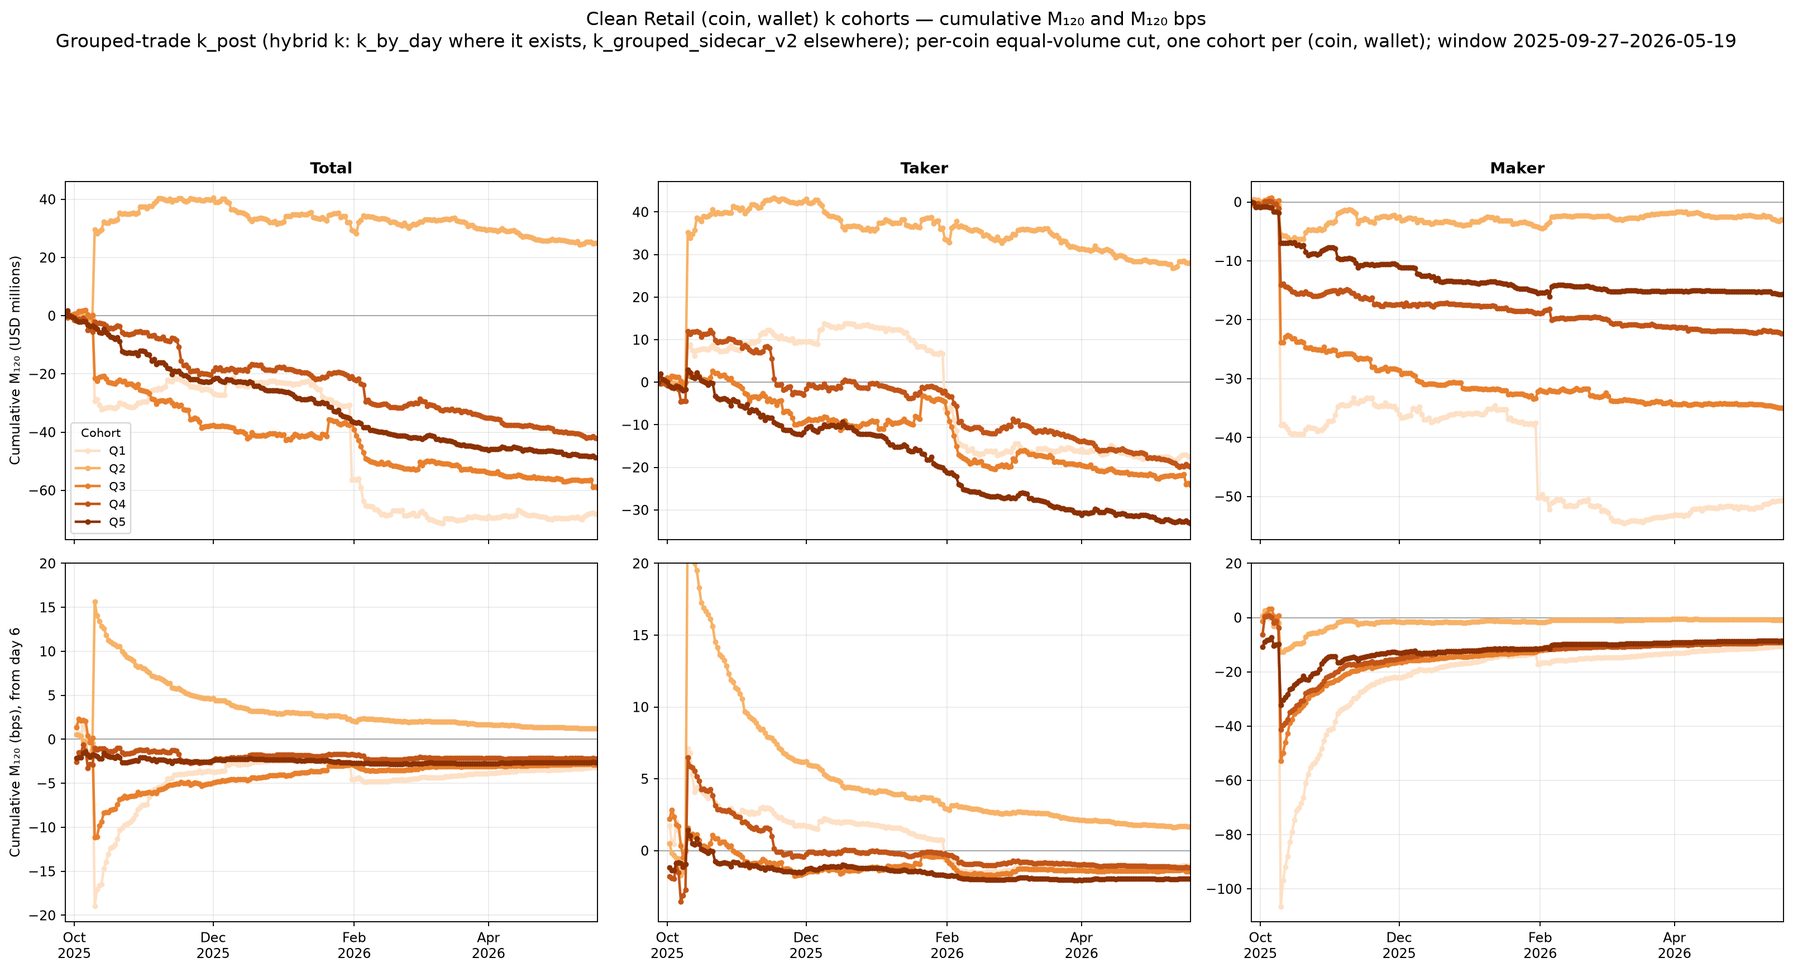
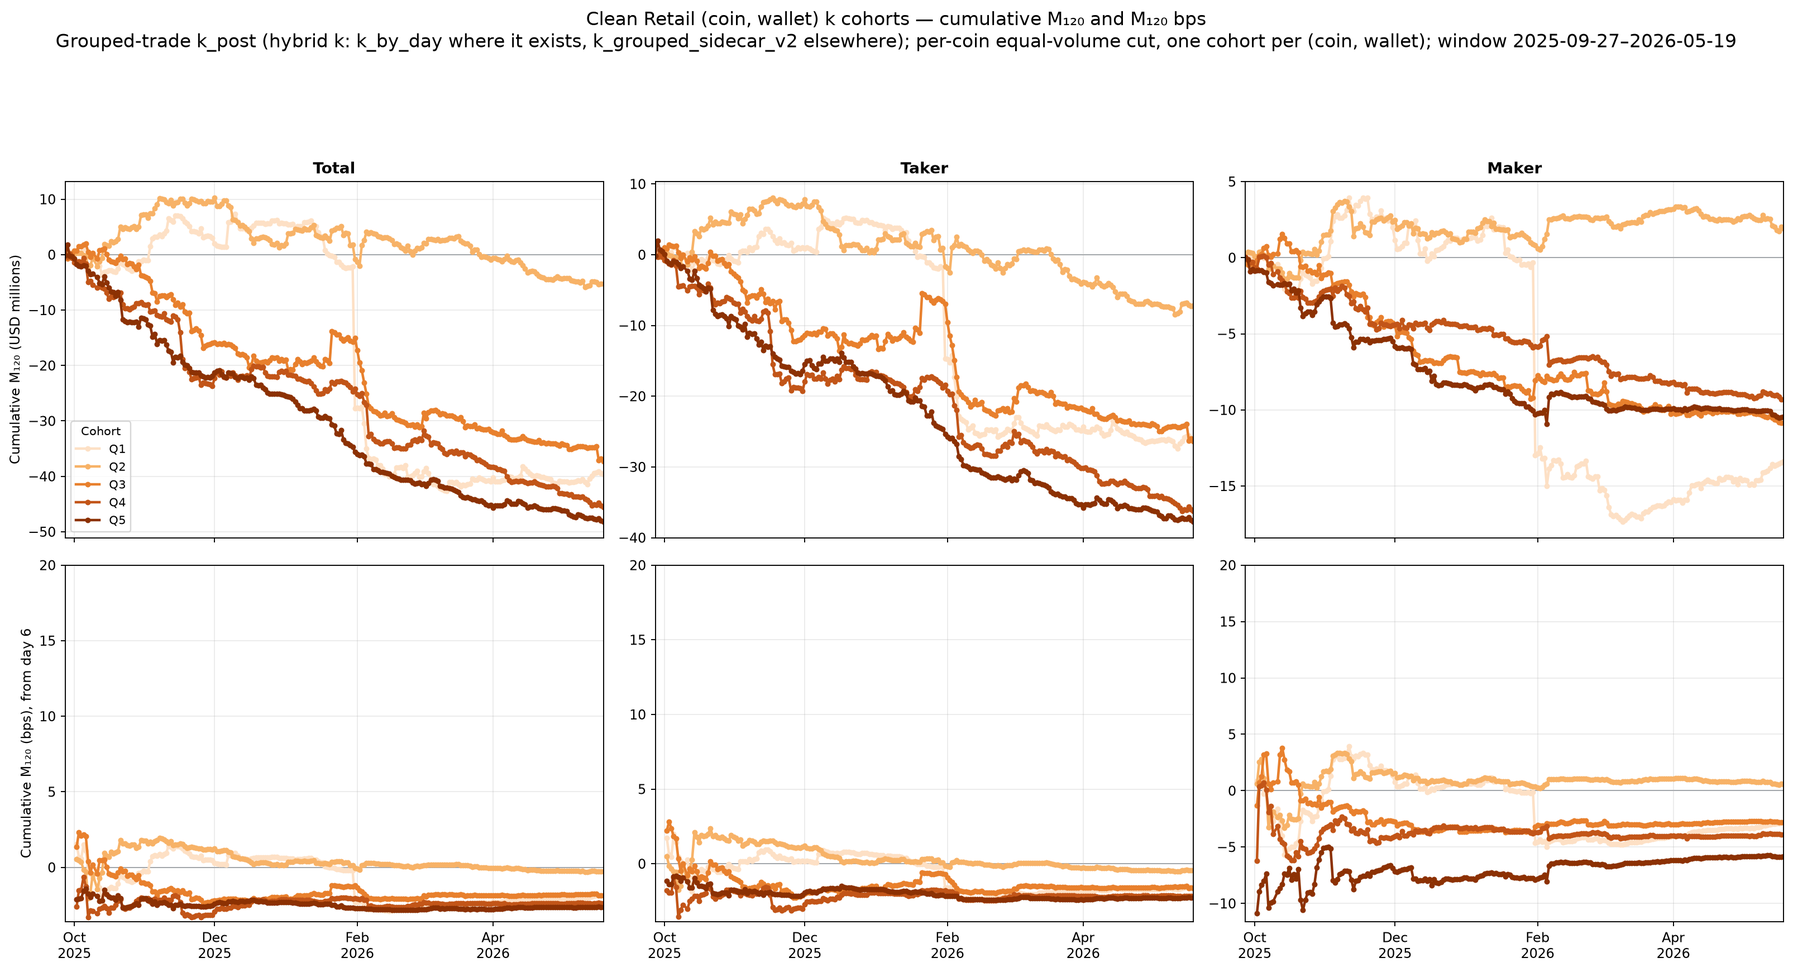
Cumulative-markout figures now exclude 2025-10-10, matching the published basis

diff --git a/index.html b/index.html
@@ -1,4 +1,4 @@
-<!doctype html><html><head><meta charset="utf-8"><meta name="viewport" content="width=device-width,initial-scale=1"><title>Leverage and Liquidations, Large Accounts Excluded</title><style>
+<!doctype html><html><head><meta charset="utf-8"><meta name="viewport" content="width=device-width,initial-scale=1"><title>Leverage and Liquidations: Proposed Section Rewrite</title><style>
 :root{--ink:#1f2928;--muted:#687773;--line:#d8e3e0;--paper:#fff;--side:#f5f9f8;--accent:#118b7c;--accent2:#22a998;--placeholder:#e7f7f4;--placeholder-line:#2aa896;--todo:#1a56c4}
 *{box-sizing:border-box}html{scroll-behavior:smooth}body{margin:0;background:var(--paper);color:var(--ink);font-family:Georgia,"Times New Roman",serif;line-height:1.58}
 nav{position:fixed;inset:0 auto 0 0;width:236px;padding:46px 12px 22px;background:var(--side);border-right:1px solid var(--line);overflow:auto;transition:width .16s ease,padding .16s ease;z-index:10}
@@ -318,28 +318,28 @@ liquidation pattern is therefore generated by the margin arithmetic of a
 thin account, not by a surge in averaging down immediately before
 liquidation.</p>
 <h3 id="appendix-table-c.-markout-and-timing-by-trade-purpose">Appendix Table C. Markout and Its Price-Impact Component by Trade Purpose, Horizon and Leverage Cohort</h3>
-<p>Table L3 reports the markout on the cohort’s whole voluntary taker book. Splitting it by trade purpose locates the leverage gradient in the opening trade. At 2 hours the opening markout runs +2.38, −3.88, −3.98, −2.38 and −4.48 bps from Q1 to Q5, so the lowest-leverage cohort is the only one whose openings are still profitable, and the gradient is present at every horizon from 30 minutes on. The two closing purposes carry no leverage order at any horizon. The price-impact panel shows why the cohorts look alike inside a purpose: every cohort opens after the price has already moved 2 to 6 bps in the direction of the fill and realizes losses after an adverse move of 31 to 34 bps, and what separates them is the price path after the trade rather than the state they trade into.</p>
+<p>Table L3 reports the markout on the cohort’s whole voluntary taker book. Splitting it by trade purpose locates the leverage gradient in the opening trade. At 2 hours the opening markout runs +1.59, −2.46, −2.30, −1.91 and −3.49 bps from Q1 to Q5, so the lowest-leverage cohort is the only one whose openings are still profitable, and the gradient is present at every horizon from 30 minutes on. The two closing purposes carry no leverage order at any horizon. The price-impact panel shows why the cohorts look alike inside a purpose: every cohort opens after the price has already moved 3 to 7 bps in the direction of the fill and realizes losses after an adverse move of 29 to 32 bps, and what separates them is the price path after the trade rather than the state they trade into.</p>
 <p><strong>Panel A. Markout, bps of the purpose’s taker volume</strong></p>
 <table>
 <thead>
 <tr><th>Horizon</th><th style="text-align: right;">Q1</th><th style="text-align: right;">Q2</th><th style="text-align: right;">Q3</th><th style="text-align: right;">Q4</th><th style="text-align: right;">Q5</th></tr>
 </thead>
 <tbody>
-<tr><td colspan="6"><strong>Opening</strong>&nbsp;&nbsp;<span style="font-weight:400;color:#687773">taker volume $B, Q1 to Q5: 79.4 | 80.7 | 79.0 | 79.6 | 78.8</span></td></tr>
-<tr><td>+5 min</td><td style="text-align: right;">+0.30</td><td style="text-align: right;">−0.05</td><td style="text-align: right;">+0.04</td><td style="text-align: right;">+0.01</td><td style="text-align: right;">−0.49</td></tr>
-<tr><td>+30 min</td><td style="text-align: right;">+1.97</td><td style="text-align: right;">−0.68</td><td style="text-align: right;">−0.86</td><td style="text-align: right;">−0.29</td><td style="text-align: right;">−1.85</td></tr>
-<tr><td>+60 min</td><td style="text-align: right;">+2.49</td><td style="text-align: right;">−2.10</td><td style="text-align: right;">−1.67</td><td style="text-align: right;">−1.46</td><td style="text-align: right;">−2.47</td></tr>
-<tr><td>+120 min</td><td style="text-align: right;">+2.38</td><td style="text-align: right;">−3.88</td><td style="text-align: right;">−3.98</td><td style="text-align: right;">−2.38</td><td style="text-align: right;">−4.48</td></tr>
-<tr><td colspan="6"><strong>Gain-realizing close</strong>&nbsp;&nbsp;<span style="font-weight:400;color:#687773">taker volume $B, Q1 to Q5: 40.7 | 40.8 | 36.2 | 34.2 | 32.6</span></td></tr>
-<tr><td>+5 min</td><td style="text-align: right;">+0.54</td><td style="text-align: right;">+0.32</td><td style="text-align: right;">−0.06</td><td style="text-align: right;">+0.05</td><td style="text-align: right;">−0.45</td></tr>
-<tr><td>+30 min</td><td style="text-align: right;">+0.19</td><td style="text-align: right;">+0.45</td><td style="text-align: right;">−0.95</td><td style="text-align: right;">−0.17</td><td style="text-align: right;">−0.89</td></tr>
-<tr><td>+60 min</td><td style="text-align: right;">+0.09</td><td style="text-align: right;">+1.40</td><td style="text-align: right;">−0.02</td><td style="text-align: right;">+1.05</td><td style="text-align: right;">−0.87</td></tr>
-<tr><td>+120 min</td><td style="text-align: right;">−0.13</td><td style="text-align: right;">+0.92</td><td style="text-align: right;">−1.49</td><td style="text-align: right;">+1.01</td><td style="text-align: right;">−0.17</td></tr>
-<tr><td colspan="6"><strong>Loss-realizing close</strong>&nbsp;&nbsp;<span style="font-weight:400;color:#687773">taker volume $B, Q1 to Q5: 40.6 | 39.4 | 42.6 | 42.6 | 39.9</span></td></tr>
-<tr><td>+5 min</td><td style="text-align: right;">+0.10</td><td style="text-align: right;">+1.42</td><td style="text-align: right;">+0.32</td><td style="text-align: right;">−0.19</td><td style="text-align: right;">−0.22</td></tr>
-<tr><td>+30 min</td><td style="text-align: right;">−1.24</td><td style="text-align: right;">+3.04</td><td style="text-align: right;">+1.88</td><td style="text-align: right;">−1.35</td><td style="text-align: right;">+1.34</td></tr>
-<tr><td>+60 min</td><td style="text-align: right;">−2.07</td><td style="text-align: right;">+1.60</td><td style="text-align: right;">+1.40</td><td style="text-align: right;">−2.11</td><td style="text-align: right;">+1.39</td></tr>
-<tr><td>+120 min</td><td style="text-align: right;">−2.70</td><td style="text-align: right;">+7.21</td><td style="text-align: right;">+4.17</td><td style="text-align: right;">−0.31</td><td style="text-align: right;">+3.42</td></tr>
+<tr><td colspan="6"><strong>Opening</strong>&nbsp;&nbsp;<span style="font-weight:400;color:#687773">taker volume $B, Q1 to Q5: 78.0 | 79.4 | 77.7 | 78.5 | 77.6</span></td></tr>
+<tr><td>+5 min</td><td style="text-align: right;">+0.16</td><td style="text-align: right;">−0.04</td><td style="text-align: right;">+0.14</td><td style="text-align: right;">−0.08</td><td style="text-align: right;">−0.37</td></tr>
+<tr><td>+30 min</td><td style="text-align: right;">+0.75</td><td style="text-align: right;">−0.53</td><td style="text-align: right;">−0.48</td><td style="text-align: right;">−0.73</td><td style="text-align: right;">−1.58</td></tr>
+<tr><td>+60 min</td><td style="text-align: right;">+1.20</td><td style="text-align: right;">−1.54</td><td style="text-align: right;">−1.29</td><td style="text-align: right;">−1.92</td><td style="text-align: right;">−2.34</td></tr>
+<tr><td>+120 min</td><td style="text-align: right;">+1.59</td><td style="text-align: right;">−2.46</td><td style="text-align: right;">−2.30</td><td style="text-align: right;">−1.91</td><td style="text-align: right;">−3.49</td></tr>
+<tr><td colspan="6"><strong>Gain-realizing close</strong>&nbsp;&nbsp;<span style="font-weight:400;color:#687773">taker volume $B, Q1 to Q5: 40.1 | 40.5 | 35.8 | 33.9 | 32.3</span></td></tr>
+<tr><td>+5 min</td><td style="text-align: right;">+0.68</td><td style="text-align: right;">+0.30</td><td style="text-align: right;">+0.25</td><td style="text-align: right;">+0.60</td><td style="text-align: right;">−0.23</td></tr>
+<tr><td>+30 min</td><td style="text-align: right;">−0.60</td><td style="text-align: right;">+0.23</td><td style="text-align: right;">−0.43</td><td style="text-align: right;">+1.08</td><td style="text-align: right;">−0.83</td></tr>
+<tr><td>+60 min</td><td style="text-align: right;">−0.73</td><td style="text-align: right;">+0.74</td><td style="text-align: right;">−0.27</td><td style="text-align: right;">+1.59</td><td style="text-align: right;">−0.98</td></tr>
+<tr><td>+120 min</td><td style="text-align: right;">−0.71</td><td style="text-align: right;">+0.40</td><td style="text-align: right;">−1.59</td><td style="text-align: right;">+1.53</td><td style="text-align: right;">−0.47</td></tr>
+<tr><td colspan="6"><strong>Loss-realizing close</strong>&nbsp;&nbsp;<span style="font-weight:400;color:#687773">taker volume $B, Q1 to Q5: 40.0 | 38.4 | 41.6 | 42.0 | 39.2</span></td></tr>
+<tr><td>+5 min</td><td style="text-align: right;">−0.33</td><td style="text-align: right;">+0.11</td><td style="text-align: right;">−1.16</td><td style="text-align: right;">−0.98</td><td style="text-align: right;">−0.74</td></tr>
+<tr><td>+30 min</td><td style="text-align: right;">−1.29</td><td style="text-align: right;">+0.45</td><td style="text-align: right;">−1.15</td><td style="text-align: right;">−2.33</td><td style="text-align: right;">−0.23</td></tr>
+<tr><td>+60 min</td><td style="text-align: right;">−1.29</td><td style="text-align: right;">+1.28</td><td style="text-align: right;">−0.23</td><td style="text-align: right;">−2.20</td><td style="text-align: right;">+0.85</td></tr>
+<tr><td>+120 min</td><td style="text-align: right;">−3.26</td><td style="text-align: right;">+3.84</td><td style="text-align: right;">−0.55</td><td style="text-align: right;">−1.80</td><td style="text-align: right;">+0.99</td></tr>
 </tbody>
 </table>
 <p><strong>Panel B. Price-impact component, bps of the purpose’s taker volume</strong></p>
@@ -348,21 +348,21 @@ liquidation.</p>
 <tr><th>Horizon</th><th style="text-align: right;">Q1</th><th style="text-align: right;">Q2</th><th style="text-align: right;">Q3</th><th style="text-align: right;">Q4</th><th style="text-align: right;">Q5</th></tr>
 </thead>
 <tbody>
-<tr><td colspan="6"><strong>Opening</strong>&nbsp;&nbsp;<span style="font-weight:400;color:#687773">taker volume $B, Q1 to Q5: 79.4 | 80.7 | 79.0 | 79.6 | 78.8</span></td></tr>
-<tr><td>−10 min, before the fill</td><td style="text-align: right;">−4.35</td><td style="text-align: right;">−5.03</td><td style="text-align: right;">−5.58</td><td style="text-align: right;">−4.33</td><td style="text-align: right;">−2.30</td></tr>
-<tr><td>+5 min</td><td style="text-align: right;">+2.20</td><td style="text-align: right;">+2.11</td><td style="text-align: right;">+2.09</td><td style="text-align: right;">+1.97</td><td style="text-align: right;">+1.32</td></tr>
-<tr><td>+30 min</td><td style="text-align: right;">+3.87</td><td style="text-align: right;">+1.51</td><td style="text-align: right;">+1.19</td><td style="text-align: right;">+1.70</td><td style="text-align: right;">−0.03</td></tr>
-<tr><td>+120 min</td><td style="text-align: right;">+4.30</td><td style="text-align: right;">−1.64</td><td style="text-align: right;">−1.94</td><td style="text-align: right;">−0.36</td><td style="text-align: right;">−2.63</td></tr>
-<tr><td colspan="6"><strong>Gain-realizing close</strong>&nbsp;&nbsp;<span style="font-weight:400;color:#687773">taker volume $B, Q1 to Q5: 40.7 | 40.8 | 36.2 | 34.2 | 32.6</span></td></tr>
-<tr><td>−10 min, before the fill</td><td style="text-align: right;">+7.31</td><td style="text-align: right;">+8.96</td><td style="text-align: right;">+4.73</td><td style="text-align: right;">+4.77</td><td style="text-align: right;">+6.82</td></tr>
-<tr><td>+5 min</td><td style="text-align: right;">+2.92</td><td style="text-align: right;">+2.75</td><td style="text-align: right;">+2.21</td><td style="text-align: right;">+2.35</td><td style="text-align: right;">+1.53</td></tr>
-<tr><td>+30 min</td><td style="text-align: right;">+2.89</td><td style="text-align: right;">+2.56</td><td style="text-align: right;">+1.32</td><td style="text-align: right;">+2.27</td><td style="text-align: right;">+1.08</td></tr>
-<tr><td>+120 min</td><td style="text-align: right;">+2.22</td><td style="text-align: right;">+3.32</td><td style="text-align: right;">+0.79</td><td style="text-align: right;">+3.41</td><td style="text-align: right;">+1.76</td></tr>
-<tr><td colspan="6"><strong>Loss-realizing close</strong>&nbsp;&nbsp;<span style="font-weight:400;color:#687773">taker volume $B, Q1 to Q5: 40.6 | 39.4 | 42.6 | 42.6 | 39.9</span></td></tr>
-<tr><td>−10 min, before the fill</td><td style="text-align: right;">−30.82</td><td style="text-align: right;">−32.03</td><td style="text-align: right;">−33.92</td><td style="text-align: right;">−33.32</td><td style="text-align: right;">−32.52</td></tr>
-<tr><td>+5 min</td><td style="text-align: right;">+2.80</td><td style="text-align: right;">+4.13</td><td style="text-align: right;">+3.38</td><td style="text-align: right;">+2.46</td><td style="text-align: right;">+2.43</td></tr>
-<tr><td>+30 min</td><td style="text-align: right;">+1.45</td><td style="text-align: right;">+5.71</td><td style="text-align: right;">+4.95</td><td style="text-align: right;">+1.28</td><td style="text-align: right;">+3.96</td></tr>
-<tr><td>+120 min</td><td style="text-align: right;">−0.02</td><td style="text-align: right;">+9.76</td><td style="text-align: right;">+7.23</td><td style="text-align: right;">+2.31</td><td style="text-align: right;">+5.98</td></tr>
+<tr><td colspan="6"><strong>Opening</strong>&nbsp;&nbsp;<span style="font-weight:400;color:#687773">taker volume $B, Q1 to Q5: 78.0 | 79.4 | 77.7 | 78.5 | 77.6</span></td></tr>
+<tr><td>−10 min, before the fill</td><td style="text-align: right;">−5.10</td><td style="text-align: right;">−5.75</td><td style="text-align: right;">−6.62</td><td style="text-align: right;">−5.08</td><td style="text-align: right;">−2.78</td></tr>
+<tr><td>+5 min</td><td style="text-align: right;">+1.89</td><td style="text-align: right;">+2.02</td><td style="text-align: right;">+2.05</td><td style="text-align: right;">+1.76</td><td style="text-align: right;">+1.32</td></tr>
+<tr><td>+30 min</td><td style="text-align: right;">+2.48</td><td style="text-align: right;">+1.55</td><td style="text-align: right;">+1.44</td><td style="text-align: right;">+1.14</td><td style="text-align: right;">+0.11</td></tr>
+<tr><td>+120 min</td><td style="text-align: right;">+3.34</td><td style="text-align: right;">−0.32</td><td style="text-align: right;">−0.40</td><td style="text-align: right;">−0.01</td><td style="text-align: right;">−1.76</td></tr>
+<tr><td colspan="6"><strong>Gain-realizing close</strong>&nbsp;&nbsp;<span style="font-weight:400;color:#687773">taker volume $B, Q1 to Q5: 40.1 | 40.5 | 35.8 | 33.9 | 32.3</span></td></tr>
+<tr><td>−10 min, before the fill</td><td style="text-align: right;">+5.37</td><td style="text-align: right;">+8.61</td><td style="text-align: right;">+4.09</td><td style="text-align: right;">+4.37</td><td style="text-align: right;">+6.48</td></tr>
+<tr><td>+5 min</td><td style="text-align: right;">+2.84</td><td style="text-align: right;">+2.68</td><td style="text-align: right;">+2.44</td><td style="text-align: right;">+2.76</td><td style="text-align: right;">+1.70</td></tr>
+<tr><td>+30 min</td><td style="text-align: right;">+1.56</td><td style="text-align: right;">+2.63</td><td style="text-align: right;">+1.76</td><td style="text-align: right;">+3.24</td><td style="text-align: right;">+1.11</td></tr>
+<tr><td>+120 min</td><td style="text-align: right;">+1.43</td><td style="text-align: right;">+2.76</td><td style="text-align: right;">+0.61</td><td style="text-align: right;">+3.68</td><td style="text-align: right;">+1.42</td></tr>
+<tr><td colspan="6"><strong>Loss-realizing close</strong>&nbsp;&nbsp;<span style="font-weight:400;color:#687773">taker volume $B, Q1 to Q5: 40.0 | 38.4 | 41.6 | 42.0 | 39.2</span></td></tr>
+<tr><td>−10 min, before the fill</td><td style="text-align: right;">−29.10</td><td style="text-align: right;">−29.62</td><td style="text-align: right;">−32.35</td><td style="text-align: right;">−31.91</td><td style="text-align: right;">−31.69</td></tr>
+<tr><td>+5 min</td><td style="text-align: right;">+2.20</td><td style="text-align: right;">+2.66</td><td style="text-align: right;">+1.83</td><td style="text-align: right;">+1.58</td><td style="text-align: right;">+1.79</td></tr>
+<tr><td>+30 min</td><td style="text-align: right;">+1.24</td><td style="text-align: right;">+2.96</td><td style="text-align: right;">+1.83</td><td style="text-align: right;">+0.22</td><td style="text-align: right;">+2.27</td></tr>
+<tr><td>+120 min</td><td style="text-align: right;">−0.74</td><td style="text-align: right;">+6.22</td><td style="text-align: right;">+2.42</td><td style="text-align: right;">+0.72</td><td style="text-align: right;">+3.44</td></tr>
 </tbody>
 </table>
 <p class="tnote"><em>Notes.</em> September 27, 2025 to May 19, 2026, 10 coins, October 10 excluded. Front-end taker fills only; liquidation and ADL orders are not a voluntary purpose and are excluded. Markout at horizon h is the price move from the fill price to the mid h minutes later, signed in the trade’s direction, summed over the bucket and divided by the bucket’s notional. The price-impact component measures the same move from the mid at the trade rather than from the fill price, so markout equals price impact plus execution cost, and the −10 minute row is the move over the 10 minutes before the fill on the same sign convention. <span class="src">Source <code>equal_vol_volweighted_lifetime_median_grouped_trade/retail/tables/taker_m_by_horizon_trade_type.csv</code> and <code>taker_timing_by_horizon_trade_type.csv</code>, scope <code>agg</code>.</span></p>
@@ -381,4 +381,4 @@ liquidation.</p>
 <figure><img src="figs/lev_cum_m120_algo.png" alt="Cumulative 120-minute markout of algorithmic takers by leverage cohort"></figure>
 <p class="figcap"><strong>Appendix Figure D. Algorithmic takers.</strong> Axes, panels and cohort construction as in Appendix Figure B, cut on this group’s own equal-volume leverage quintiles. <span class="src">Source <code>equal_vol_percoin_coinuser_grouped_trade/algo/agg/cumulative_m120_and_bps.png</code>.</span></p>
 <p class="tnote"><span class="todo">Appendix Figures A, B, C and D use an orange ramp. The section’s convention is one hue per group, purple for front-end, blue for algorithmic takers, green for market makers. Repalette before publication, and relabel their “timing” axes as price impact.</span></p>
-</main><script>(function(){var b=document.body,n=document.getElementById('sidebar'),t=document.getElementById('navtoggle'),K='lev-nav';function set(open,store){n.classList.toggle('collapsed',!open);b.classList.toggle('nav-collapsed',!open);t.setAttribute('aria-expanded',open?'true':'false');t.textContent=open?'✕':'☰';if(store){try{localStorage.setItem(K,open?'open':'closed')}catch(e){}}}var v=null;try{v=localStorage.getItem(K)}catch(e){}set(v?v==='open':window.innerWidth>900,false);t.addEventListener('click',function(){set(n.classList.contains('collapsed'),true)});})();</script><p style="font-size:0.85em;color:#555;margin-top:2.5em;border-top:1px solid #ddd;padding-top:0.8em"><strong>This build excludes the 86 wallets whose median active-day account equity is $5M or more</strong> — 0.03% of the front-end population and 6.2% of its taker volume. They are not retail on any ordinary reading (one posts 175,000 maker-only orders on $11.6M of equity), and by volume they dominate the low-k cohorts, so cohort dollar totals in the full-population build describe them rather than retail traders. With them removed the liquidation gradient is monotone again and close to the published section: liquidation markout −87.5 / −44.1 / −43.4 / −23.8 / −11.3 $M from Q1 to Q5 (published −123.4 / −64.1 / −48.6 / −17.5 / −16.0), the median liquidated dollar sits in a $479M / 8.3% episode in Q1 (published $479M / 8.3%), and half of Q1's liquidations fall on 1 day. Other builds: full population <a href="https://shouqiao0530.github.io/hyperliquid-leverage-rebuilt/">https://shouqiao0530.github.io/hyperliquid-leverage-rebuilt/</a>, one whale removed <a href="https://shouqiao0530.github.io/hyperliquid-leverage-nowhale/">https://shouqiao0530.github.io/hyperliquid-leverage-nowhale/</a>. Rebuilt 2026-09-23 on the window 2025-09-27 to 2026-05-19 with the new k only (node-snapshot k_by_day_v6 for 2025-10-20 to 2026-05-19, Allium-anchored k for 2025-09-27 to 10-19, flagged rows removed; no data after 2026-05-19; Retail boundaries 0.102 / 0.153 / 0.250 / 0.377; 272,229 front-end wallets). Figures, Tables L1 to L4, Appendix Tables A and C and the sentences quoting them are from this build. The two trade-purpose tables are recomputed at grouped-trade grain (one row per order execution), so average notional is larger than the published fill-grain figure. Not rebuilt and kept from the published version: the three-group liquidation-loss shares and ADL totals, Appendix Table B, the fee-regression coefficients, the wallet-life dollar figures in the closing paragraphs, and the 0.31% reconciliation error.</p></body></html>
+</main><script>(function(){var b=document.body,n=document.getElementById('sidebar'),t=document.getElementById('navtoggle'),K='lev-nav';function set(open,store){n.classList.toggle('collapsed',!open);b.classList.toggle('nav-collapsed',!open);t.setAttribute('aria-expanded',open?'true':'false');t.textContent=open?'✕':'☰';if(store){try{localStorage.setItem(K,open?'open':'closed')}catch(e){}}}var v=null;try{v=localStorage.getItem(K)}catch(e){}set(v?v==='open':window.innerWidth>900,false);t.addEventListener('click',function(){set(n.classList.contains('collapsed'),true)});})();</script><p style="font-size:0.85em;color:#555;margin-top:2.5em;border-top:1px solid #ddd;padding-top:0.8em"><strong>The three cumulative-markout figures now exclude 2025-10-10</strong>, matching the published figures, whose subtitle carries the same exclusion; every other exhibit keeps that day. The cohort cut itself still uses all dates. Rebuilt 2026-09-23 on the window 2025-09-27 to 2026-05-19 with the new k only (node-snapshot k_by_day_v6 for 2025-10-20 to 2026-05-19, Allium-anchored k for 2025-09-27 to 10-19, flagged rows removed; no data after 2026-05-19; Retail boundaries 0.102 / 0.153 / 0.250 / 0.377; 272,229 front-end wallets). Figures, Tables L1 to L4, Appendix Tables A and C and the sentences quoting them are from this build. The two trade-purpose tables are recomputed at grouped-trade grain (one row per order execution), so average notional is larger than the published fill-grain figure. Not rebuilt and kept from the published version: the three-group liquidation-loss shares and ADL totals, Appendix Table B, the fee-regression coefficients, the wallet-life dollar figures in the closing paragraphs, and the 0.31% reconciliation error.</p></body></html>
